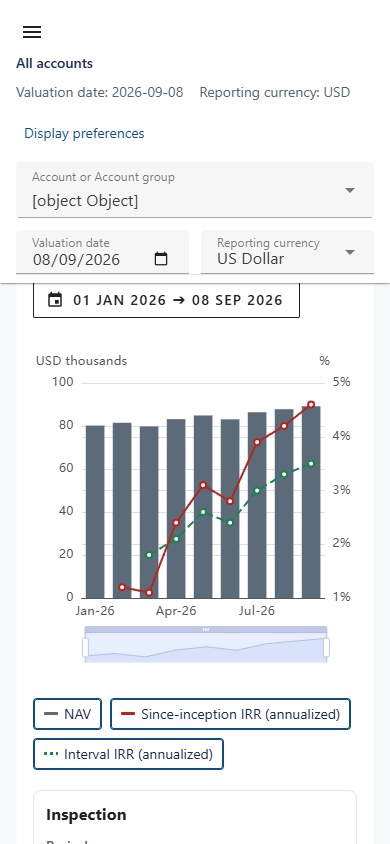
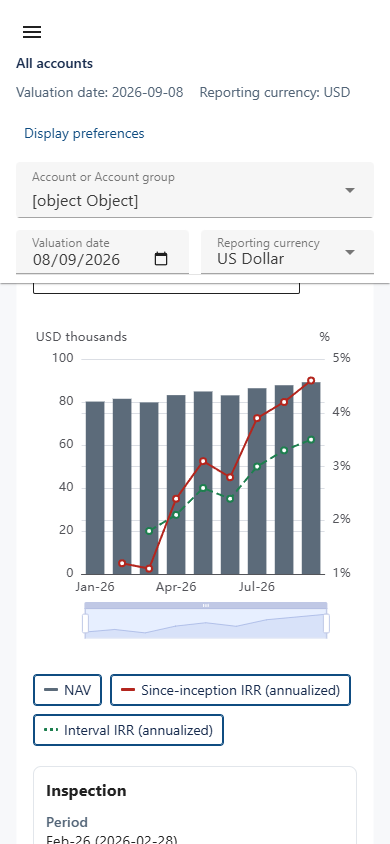
docs(charts): C3 round-2 evidence and tracker — tick/tooltip semantics, shrink fix, formatting trace

Changed region(s): [[0.0615, 0.3389, 0.9231, 1.0], [0.4615, 0.3389, 0.7385, 0.3697]]

diff --git a/docs/design/frontend-workspace.md b/docs/design/frontend-workspace.md
@@ -244,6 +244,19 @@ All seven findings fixed with regressions first (`navReview.spec.ts`, 9 cases ob
 
 **Retaken captures** (five genuinely distinct images, each scrolled so the chart, both IRRs and the relevant controls are in view): desktop (chart + legend + controls, both IRRs visible), partial (table + inspection showing `partial (missing_price); known subtotal 90000` text), keyboard (inspection panel focused), mobile 390x844 (chart area), legacy (incumbent renderer + notice). **Completed measurements** (report in `tests/browser/artifacts/charts-c3-delivery.json`): flag-off dashboard 336,829 gzip bytes / flag-on 529,965 (unchanged budgets); NAV API 13/11 ms (flag-off/flag-on, fixture server — local-loopback numbers, not production latency claims); domContentLoaded 229/340 ms; fonts 0/0 fetched (system font stack — none delivered); isolated-harness cold frontend render 589 ms (script evaluation to first painted pilot canvas, no API involved). Init-script-based page instrumentation was abandoned after proving unreliable (agent-browser re-executes `--init-script` per command and its window object was not reliably observable from page evals) — recorded so the method is not retried blindly.
 
+
+## PR #53 review round 2 (3 October 2026): tick/tooltip semantics, responsive shrink, faithful formatting
+
+Four review findings plus the formatting requirement, each with failing regressions first (units 533 -> 538):
+
+1. **Return-axis ticks** — a presentation-only formatter labels raw ratios as percentages (0.05 -> `5%`, 0.1234 -> `12.34%`, -0.02 -> `-2%`, 0 -> `0%`); plotted values and the validated document are asserted unchanged. RED -> GREEN.
+2. **Tooltip units** — axis and value unit labels are now separate: exact amounts carry their stated currency only (`USD 100,000.00`), and the `thousands` plotting-scale label exists solely on the scaled money axis. RED -> GREEN.
+3. **Tooltip horizons** — tooltip IRR lines use the shared annualized control names with per-series horizons (inception-to-endpoint vs the server-provided interval; the horizon helper moved to `interaction.ts` and is shared with the inspection panel so the two surfaces cannot drift). RED -> GREEN.
+4. **Responsive shrink** — desktop->390px previously pinned a **974px child inside a 324px panel**, clipping the interval-IRR control; a `min-width: 0 / max-width: 100%` chain through the pilot grid and renderer wrapper fixes it. The browser case now asserts, after desktop->390 AND after restoring 390->desktop, that EVERY legend control sits inside the panel, the canvas resizes with it, the viewport controls fit, and visibility state survives. RED observed pre-fix with exactly the review's geometry (`widest 974px vs panel 324px`); GREEN post-fix.
+5. **Thousands separators** — traced: the screenshot defect came from the **browser fixtures** (`$80200.00`), not server formatting or rendering; the app renders server display strings verbatim. The fixtures now generate comma-grouped, signed-parenthesized displays like the real backend `currency_format` output, and new formatting regressions pin verbatim rendering for `USD 10,000.00`, `(USD 1,234,567,890.12)`, zero, 4-dp precision, partial `known subtotal 9007199254740993.123456789` and a 32-significant-digit display beyond Number's safe range — no parsing, no Number conversion, no backend presentation change needed. (These verbatim tests passed immediately against existing rendering, which is itself the finding: the renderer was already exact; only fixtures were unfaithful.)
+
+Gates after the round (actual exit codes, committed head `f6892bf8`): `test:unit` 538 (0; one transient icons-inventory timeout on the first run, clean on immediate rerun and in every focused run) · type-checks x3 (0) · lint 0/35 (0) · api:types (0) · build (0) · full `test:browser` 72 profiles (0) · all focused cases incl. both-flag charts-c3 with resize transitions and native 200% zoom (0) · `test:delivery` (0) · backend 1386/10 (0). Fresh captures retaken with formatted fixtures; the partial capture now shows comma-grouped monthly NAV values, and the browser case asserts `\d,\d{3}` appears in the rendered table before capturing.
+
 ## Deliberate decisions, deviations and limits
 
 - **Strict-check scoping:** tsconfig.charts.json keeps every pure/renderer feature module strict; NavChartPanel.vue, the two dashboard integration specs and the dev harness are excluded because they compose/mount the legacy app graph (the C2 precedent) - they remain covered by the main type-check. No exclusion was added for pure code.

diff --git a/docs/superpowers/plans/2026-09-30-frontend-modernization-progress.md b/docs/superpowers/plans/2026-09-30-frontend-modernization-progress.md
@@ -75,6 +75,7 @@ The final release gate is not just passing unit tests: it includes the dashboard
 - RED/GREEN: navOption 22 (35 mode/frequency mappings, toPlotNumber edges, visibility/zoom immutability, style stability), navAccessibility 13 (one genuine defect caught: missing reason text), navLifecycle 12 (policy states, exactly-once disposal, wholesale series replacement, render-failure retry/fallback, server-key event mapping, document immutability), navIntegration 9 (both gate states, legacy-only, malformed v2, historical range, fallback without extra requests, one-request-per-action, context invalidation, bounded C2 reconciliation-loop regression) — all RED first as documented in the design evidence.
 - Gates (Node v24.20.0; actual exit codes; baseline on `bcee56d1`+Task 0: 468 units, lint 0/35, type checks/api/build 0): the ORIGINALLY reported final matrix (524 units, all gates 0) is partially retracted — its type-check and lint results ran on a working tree whose fixes were never pushed, so `e034bed4` in fact carried 1 TS error and 8 lint diagnostics; reproduced and corrected in the review round. Corrected matrix on the review head: see the review-round entry below.
 - Review round (3 October 2026, PR #53, commits `5ed7ec16`/`c61bb5b6`/`2223ece9`): all seven findings corrected with `navReview.spec.ts` written RED first (9/9 failing against `e034bed4`, then GREEN; units now 533) — inspection preserves partial status/reason/knownSubtotal for series and full NAV with backend-shaped ordinary-currency displays; tooltips render exact server displays/statuses/units (HTML-escaped) with currency-scaled money and % return axis labels; per-IRR horizons via a shared control-name helper with "raw ratio" removed; batched inside-zoom normalized; the panel initializes visibility when mounting with an existing result; the harness installs Pinia and renders independently; the TS2769 fix and all eight lint diagnostics are committed (no checks weakened, baseline unchanged). Five genuinely distinct captures retaken (chart + both IRRs + controls in view per state), and the handoff measurements completed: flag-off 336,829 / flag-on 529,965 gzip; NAV API 13/11 ms (loopback); domContentLoaded 229/340 ms; fonts 0/0 (system stack); harness cold frontend render 589 ms — init-script page instrumentation abandoned as unreliable, method recorded. Full corrected gate matrix on the review head: `test:unit` 533 (0); `type-check:charts`/`type-check`/`type-check:reliability` (0); `lint` 0 errors/35 warnings (0); `api:types:check` (0); `build` (0); full `test:browser` 72 profiles (0); `--case` charts-c2/charts-c3/requests/dates/context/recovery/d4 (0); `test:delivery` (0); backend pytest 1386 passed/10 skipped (0).
+- Review round 2 (3 October 2026, PR #53, commit `f6892bf8`): four findings plus the formatting requirement corrected — percent tick formatter on the return axis (plotted values untouched, RED->GREEN); tooltip value units split from the plotting-scale axis label (exact amounts carry plain currency; `thousands` stays on the money axis, RED->GREEN); tooltip IRR lines use the shared annualized names and per-series horizons via a helper shared with the inspection panel (RED->GREEN); responsive shrink fixed with a min-width:0 chain — the desktop->390px transition had pinned a 974px child in a 324px panel and clipped the interval-IRR control, now asserted for every legend control/canvas/viewport control in BOTH resize directions (browser RED observed with the review's exact geometry, then GREEN); thousands separators traced to unfaithful browser fixtures (rendering was verbatim all along — pinned by new formatting regressions covering 10,000/large-negative/zero/4-dp/partial knownSubtotal/32-significant-digit values with no parsing or Number conversion; fixtures now mirror backend currency_format; no backend change needed). Units 538; full corrected matrix on `f6892bf8`: test:unit 538 (0; one transient icons timeout, clean rerun), type-checks x3 (0), lint 0/35 (0), api:types (0), build (0), full browser 72 profiles (0), all focused cases incl. both-flag charts-c3 with resize transitions and native 200% zoom (0), test:delivery (0), backend 1386/10 (0).
 - Deferred acceptance / boundaries: default stays Chart.js; no default-on rollout (C5), pies/security migration (C4), Chart.js removal, main merge or deployment; real screen-reader audit (D8) and render-timing/font measurements now recorded; screenshots attached for reviewer visual inspection. Draft PR, stopping for review.
 
 ### D3 implementation record
